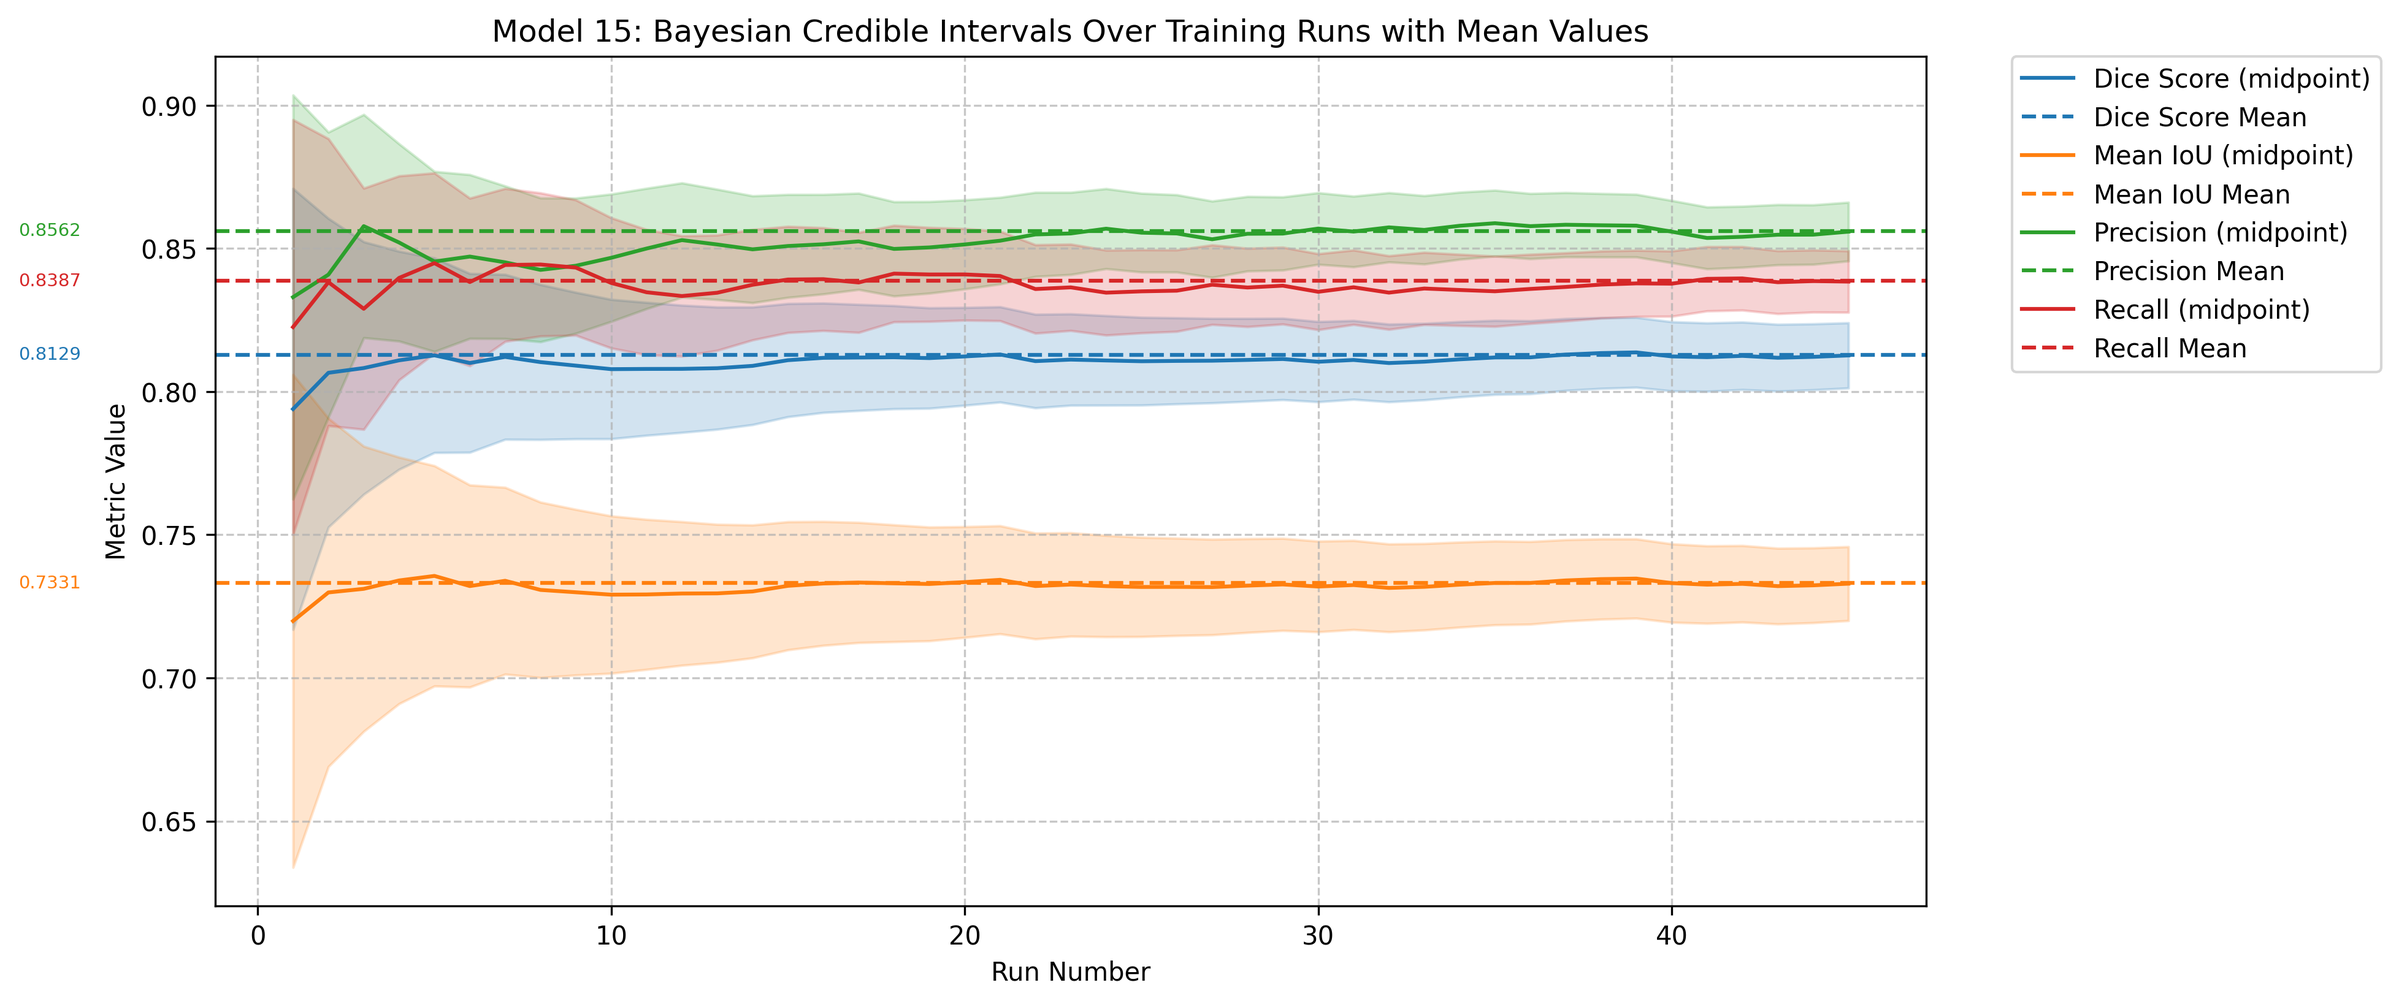
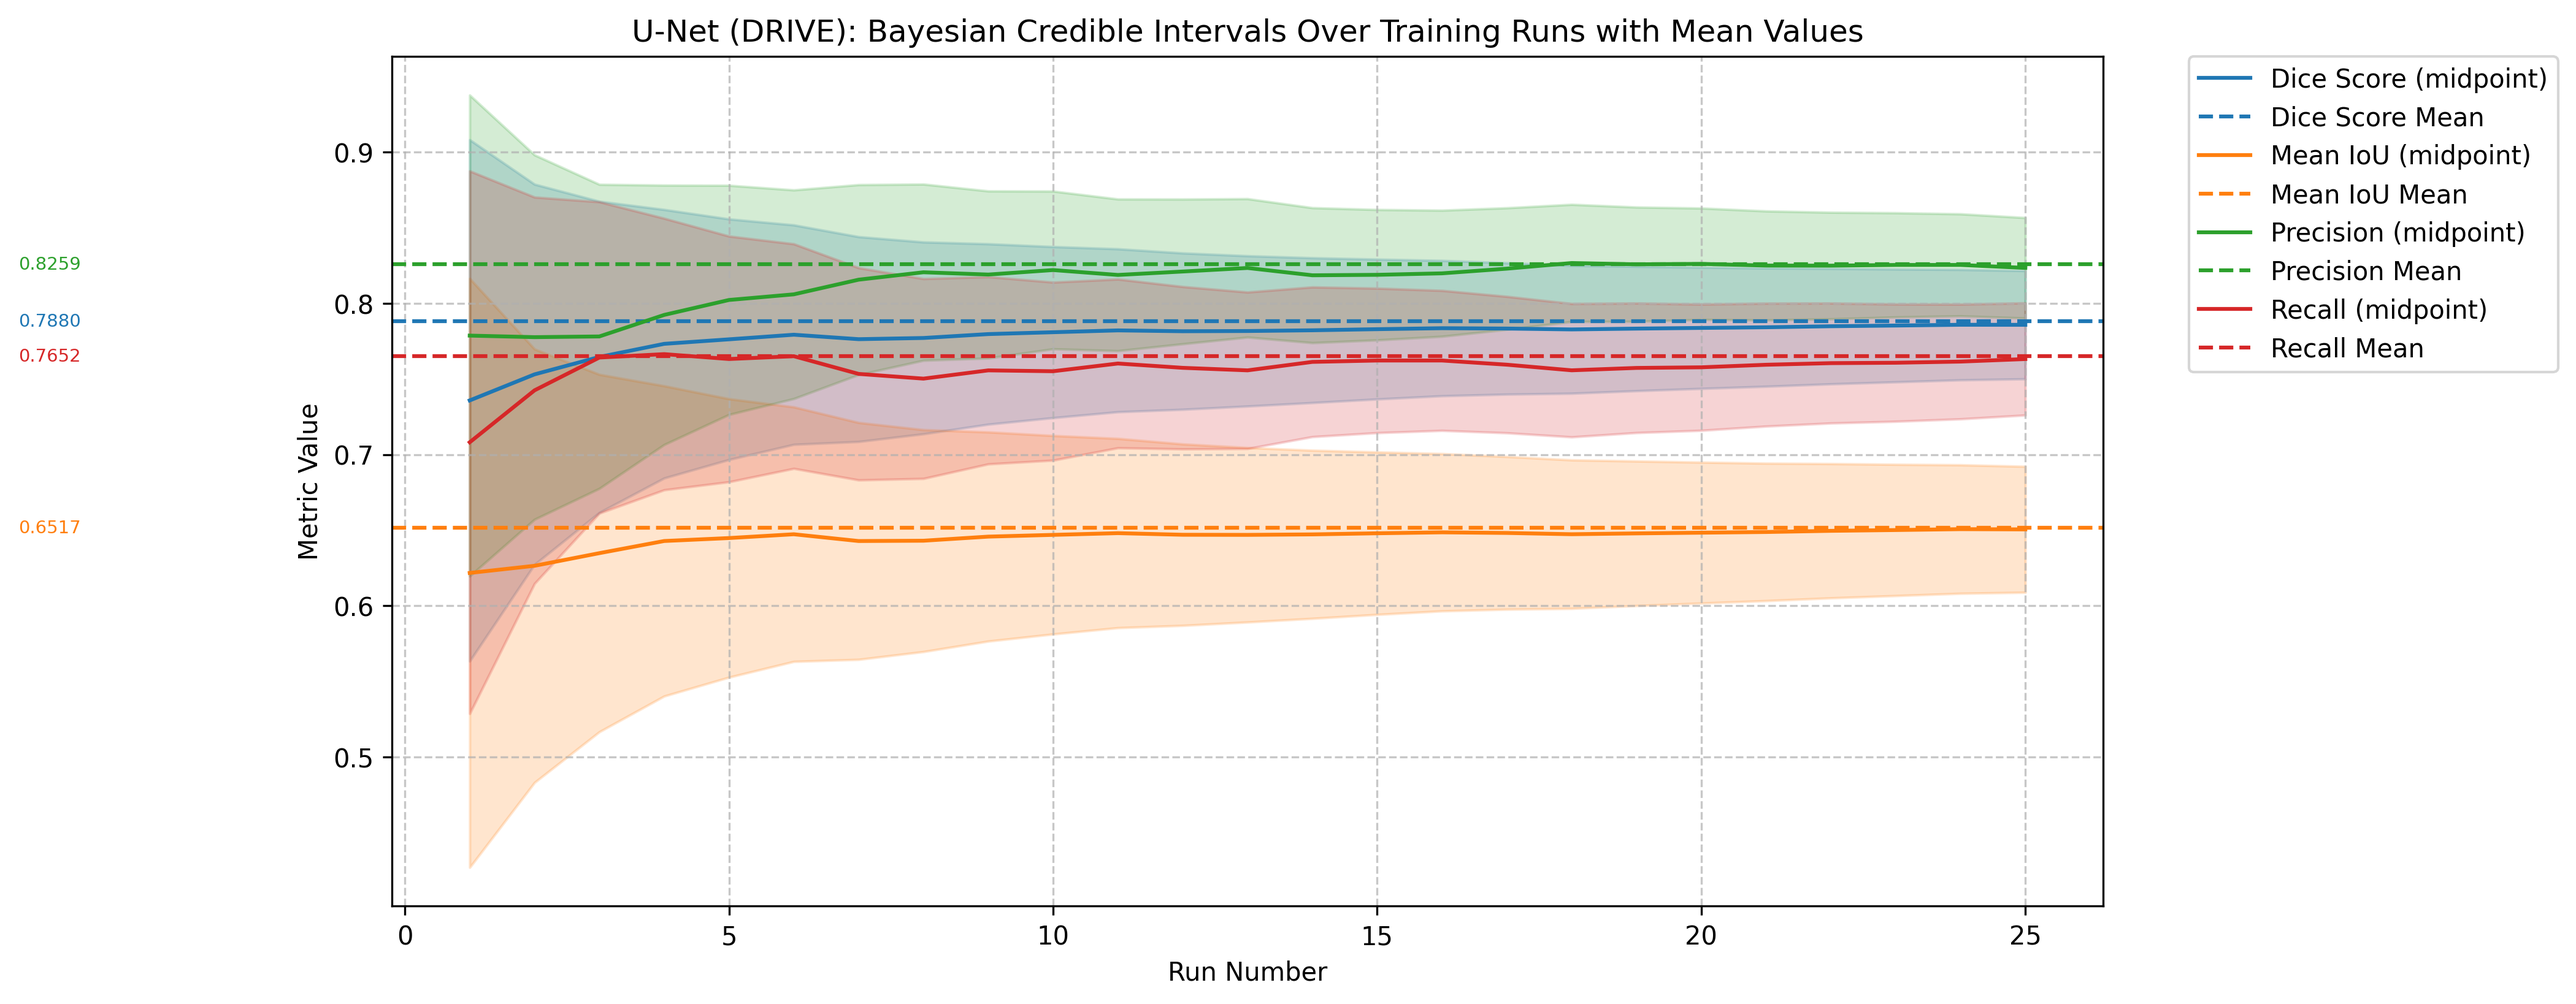
DRIVE U-Net results

diff --git a/analyse_results.py b/analyse_results.py
@@ -4,7 +4,7 @@ import matplotlib.pyplot as plt
 import seaborn as sns
 
 # File path
-file_path = "training_results_J2(skip all).txt"
+file_path = "DRIVE_training_results_UNet.txt"
 
 # Updated regex pattern to extract the two dictionaries
 dict_pattern = re.compile(r"Run \d+: (\{.*?\}), Credible Intervals: (\{.*?\})")
@@ -66,7 +66,7 @@ def plot_boxplots(metrics, filename="boxplot.png"):
     sns.boxplot(data=[metrics[key] for key in metrics.keys()])
     plt.xticks(ticks=range(len(metrics.keys())), labels=list(metrics.keys()), rotation=20)
     plt.ylabel("Metric Values")
-    plt.title("Model 15: Boxplots of Metrics")
+    plt.title("U-Net (DRIVE): Boxplots of Metrics")
     plt.grid(axis="y", linestyle="--", alpha=0.7)
     # Save the figure
     plt.savefig(filename, bbox_inches="tight", dpi=300)
@@ -121,7 +121,7 @@ def plot_credible_intervals(runs, filename="credible_intervals.png"):
 
     plt.xlabel("Run Number")
     plt.ylabel("Metric Value")
-    plt.title("Model 15: Bayesian Credible Intervals Over Training Runs with Mean Values")
+    plt.title("U-Net (DRIVE): Bayesian Credible Intervals Over Training Runs with Mean Values")
     plt.legend(loc='upper left', bbox_to_anchor=(1.05, 1), borderaxespad=0.)
     plt.grid(True, linestyle="--", alpha=0.7)
     plt.savefig(filename, bbox_inches="tight", dpi=300)
